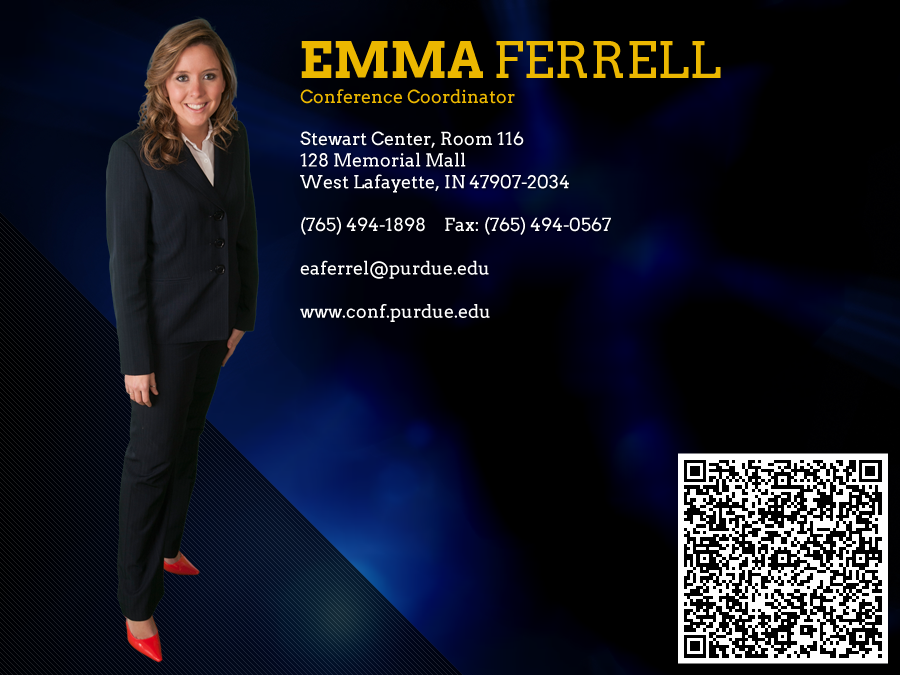
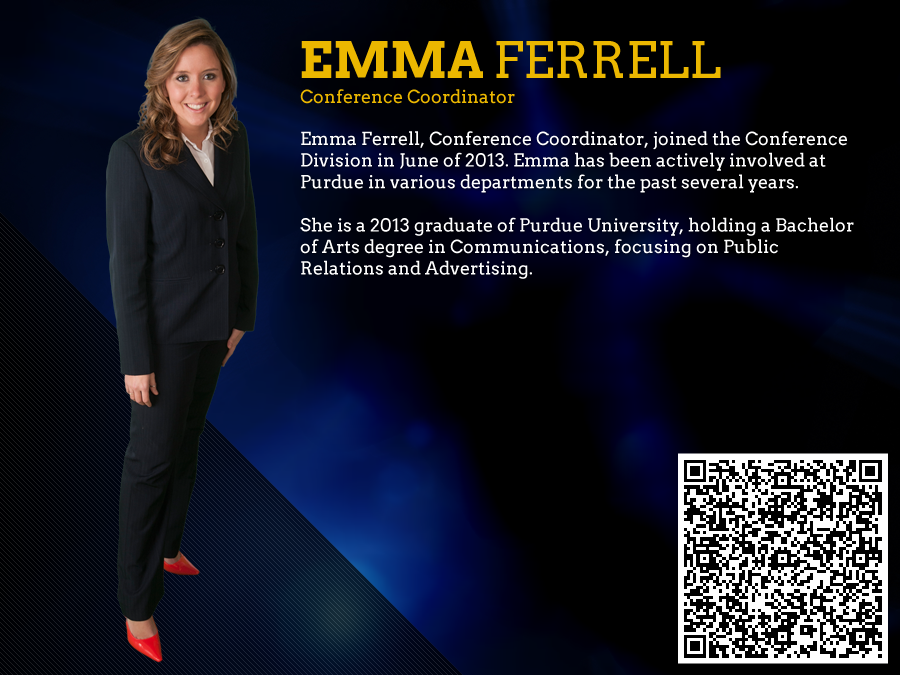
Changes made by Noel Robinos (robinosn@gmail.com). - Add Bios for Staff - Add Tile and Popup Images for Pamela Walker-Stokes

Changed region(s): [[0.3111, 0.1867, 0.9333, 0.28], [0.3111, 0.3111, 0.9644, 0.4978]]

diff --git a/Purdue Conference Highlights/index.html b/Purdue Conference Highlights/index.html
@@ -1202,39 +1202,50 @@
 							<img class="popphoto" src="images/staff/popup_beth.png" alt="Beth Scharf">
 						</div>
 					</div>
+                    
 					<div class="ui-block-b">
 						<a href="#popupPhoto8" data-rel="popup" data-transition="flip">
-							<img src="images/staff/tile_kathy.png" width="99%" >
+							<img src="images/staff/tile_pamela.png" width="99%" >
 						</a>
 						<div data-role="popup" id="popupPhoto8" data-overlay-theme="a" data-theme="d" data-corners="false" data-position-to="window">
+							<a href="#" data-rel="back" data-role="button" data-theme="a" data-icon="delete" data-iconpos="notext" class="ui-btn-right">Close</a>
+							<img class="popphoto1" src="images/staff/popup_pamela.png" alt="Pamela Walker-Stokes">
+						</div>
+					</div>
+                    
+					<div class="ui-block-b">
+						<a href="#popupPhoto9" data-rel="popup" data-transition="flip">
+							<img src="images/staff/tile_kathy.png" width="99%" >
+						</a>
+						<div data-role="popup" id="popupPhoto9" data-overlay-theme="a" data-theme="d" data-corners="false" data-position-to="window">
 							<a href="#" data-rel="back" data-role="button" data-theme="a" data-icon="delete" data-iconpos="notext" class="ui-btn-right">Close</a>
 							<img class="popphoto1" src="images/staff/popup_kathy.png" alt="Kathy Walters">
 						</div>
 					</div>
 					<div class="ui-block-c">
-						<a href="#popupPhoto9" data-rel="popup"  data-transition="flip">
+						<a href="#popupPhoto10" data-rel="popup"  data-transition="flip">
 							<img src="images/staff/tile_erica.png" width="99%" >
 						</a>
-						<div data-role="popup" id="popupPhoto9" data-overlay-theme="a" data-theme="d" data-corners="false" data-position-to="window">
+						<div data-role="popup" id="popupPhoto10" data-overlay-theme="a" data-theme="d" data-corners="false" data-position-to="window">
 							<a href="#" data-rel="back" data-role="button" data-theme="a" data-icon="delete" data-iconpos="notext" class="ui-btn-right">Close</a>
 							<img class="popphoto3" src="images/staff/popup_erica.png" alt="Erica Wilson">
 						</div>
 					</div>
 
-					<div class="ui-block-a">
- 						<a href="#popupPhoto5" data-rel="popup" data-transition="flip">
+					<div class="ui-block-b">
+ 						<a href="#popupPhoto11" data-rel="popup" data-transition="flip">
 							<img src="images/staff/tile_kevin.png" width="99%" >
 						</a>
-						<div data-role="popup" id="popupPhoto5" data-overlay-theme="a" data-theme="d" data-corners="false" data-position-to="window">
+						<div data-role="popup" id="popupPhoto11" data-overlay-theme="a" data-theme="d" data-corners="false" data-position-to="window">
 							<a href="#" data-rel="back" data-role="button" data-theme="a" data-icon="delete" data-iconpos="notext" class="ui-btn-right">Close</a>
 							<img class="popphoto1" src="images/staff/popup_kevin.png" alt="Kevin Ness">
 						</div>                       
 					</div>
 					<div class="ui-block-b">
-						<a href="#popupPhoto11" data-rel="popup" data-transition="flip">
+						<a href="#popupPhoto12" data-rel="popup" data-transition="flip">
 							<img src="images/staff/tile_RegistrationAssistants.png" width="99%" >
 						</a>
-						<div data-role="popup" id="popupPhoto11" data-overlay-theme="a" data-theme="d" data-corners="false" data-position-to="window">
+						<div data-role="popup" id="popupPhoto12" data-overlay-theme="a" data-theme="d" data-corners="false" data-position-to="window">
 							<a href="#" data-rel="back" data-role="button" data-theme="a" data-icon="delete" data-iconpos="notext" class="ui-btn-right">Close</a>
 							<img class="popphoto1" src="images/staff/popup_RegistrationAssistants.png" alt="Registration Assitants">
 						</div>
